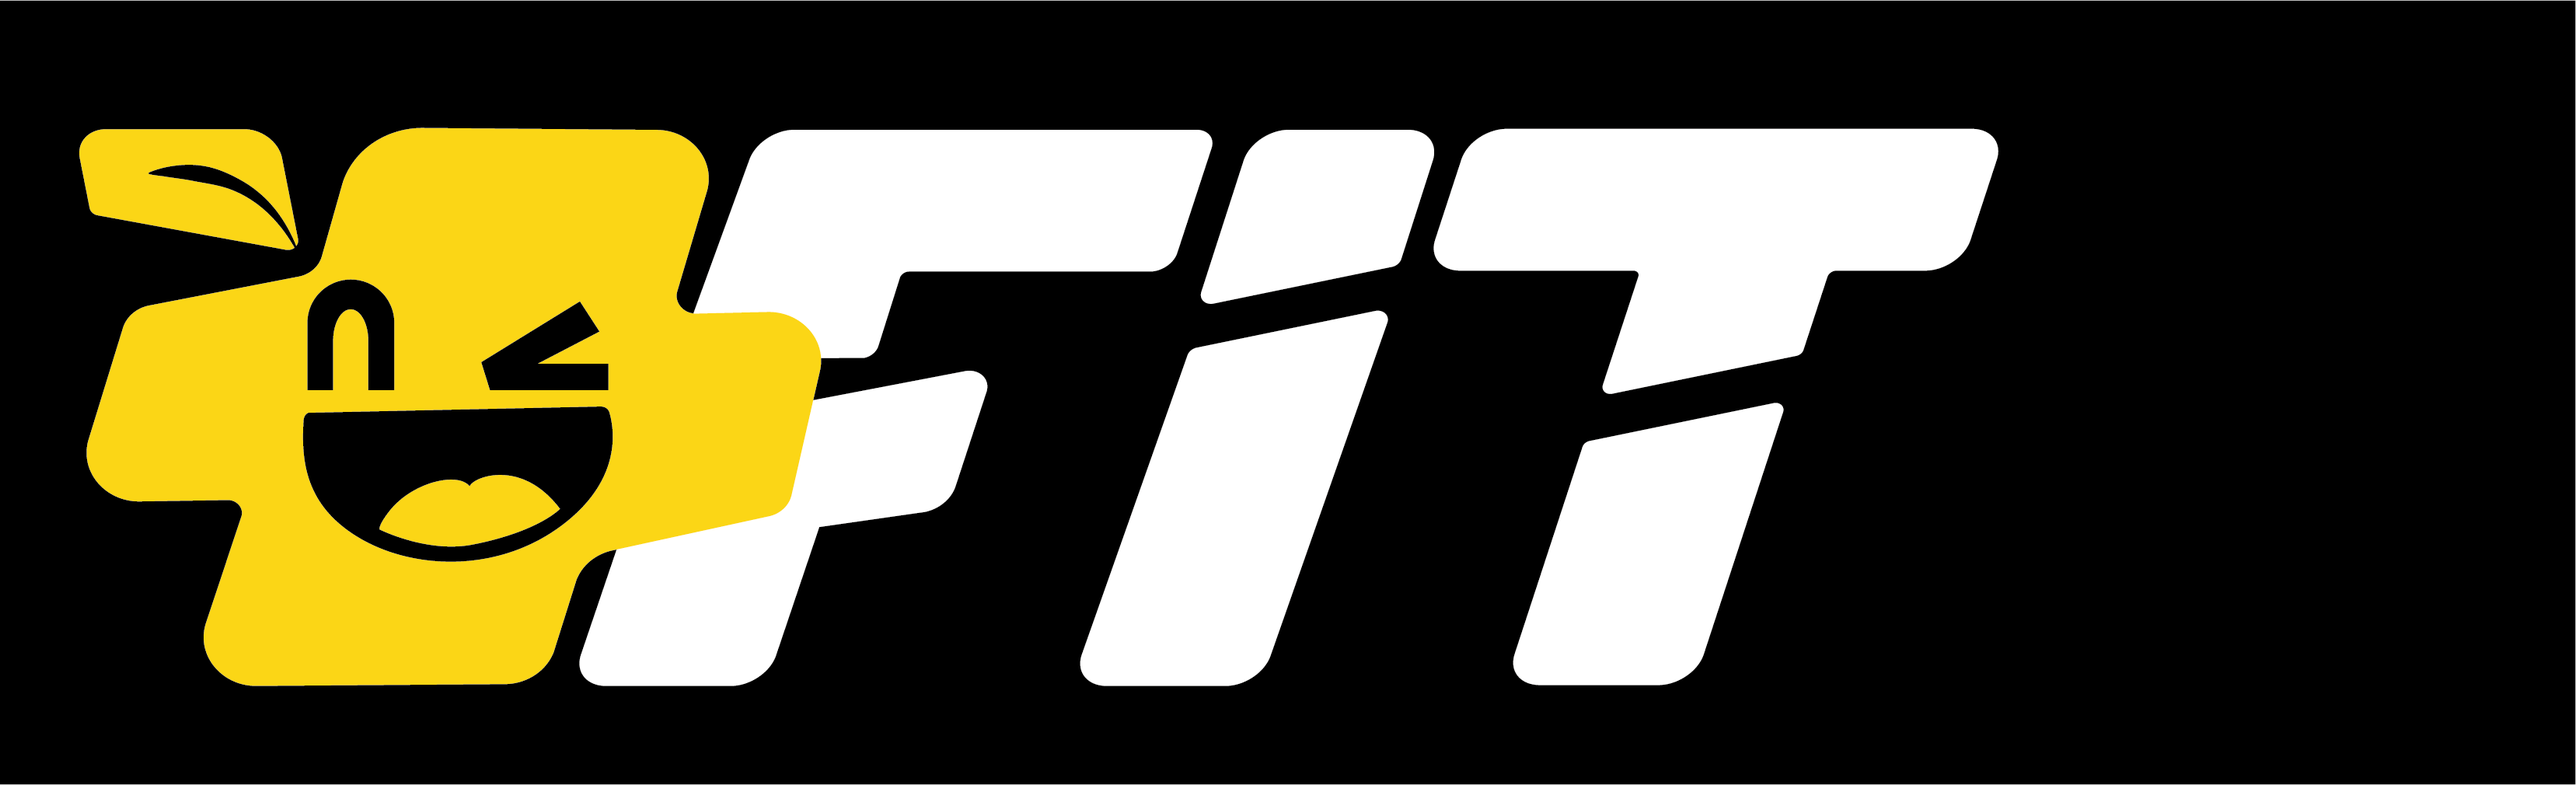
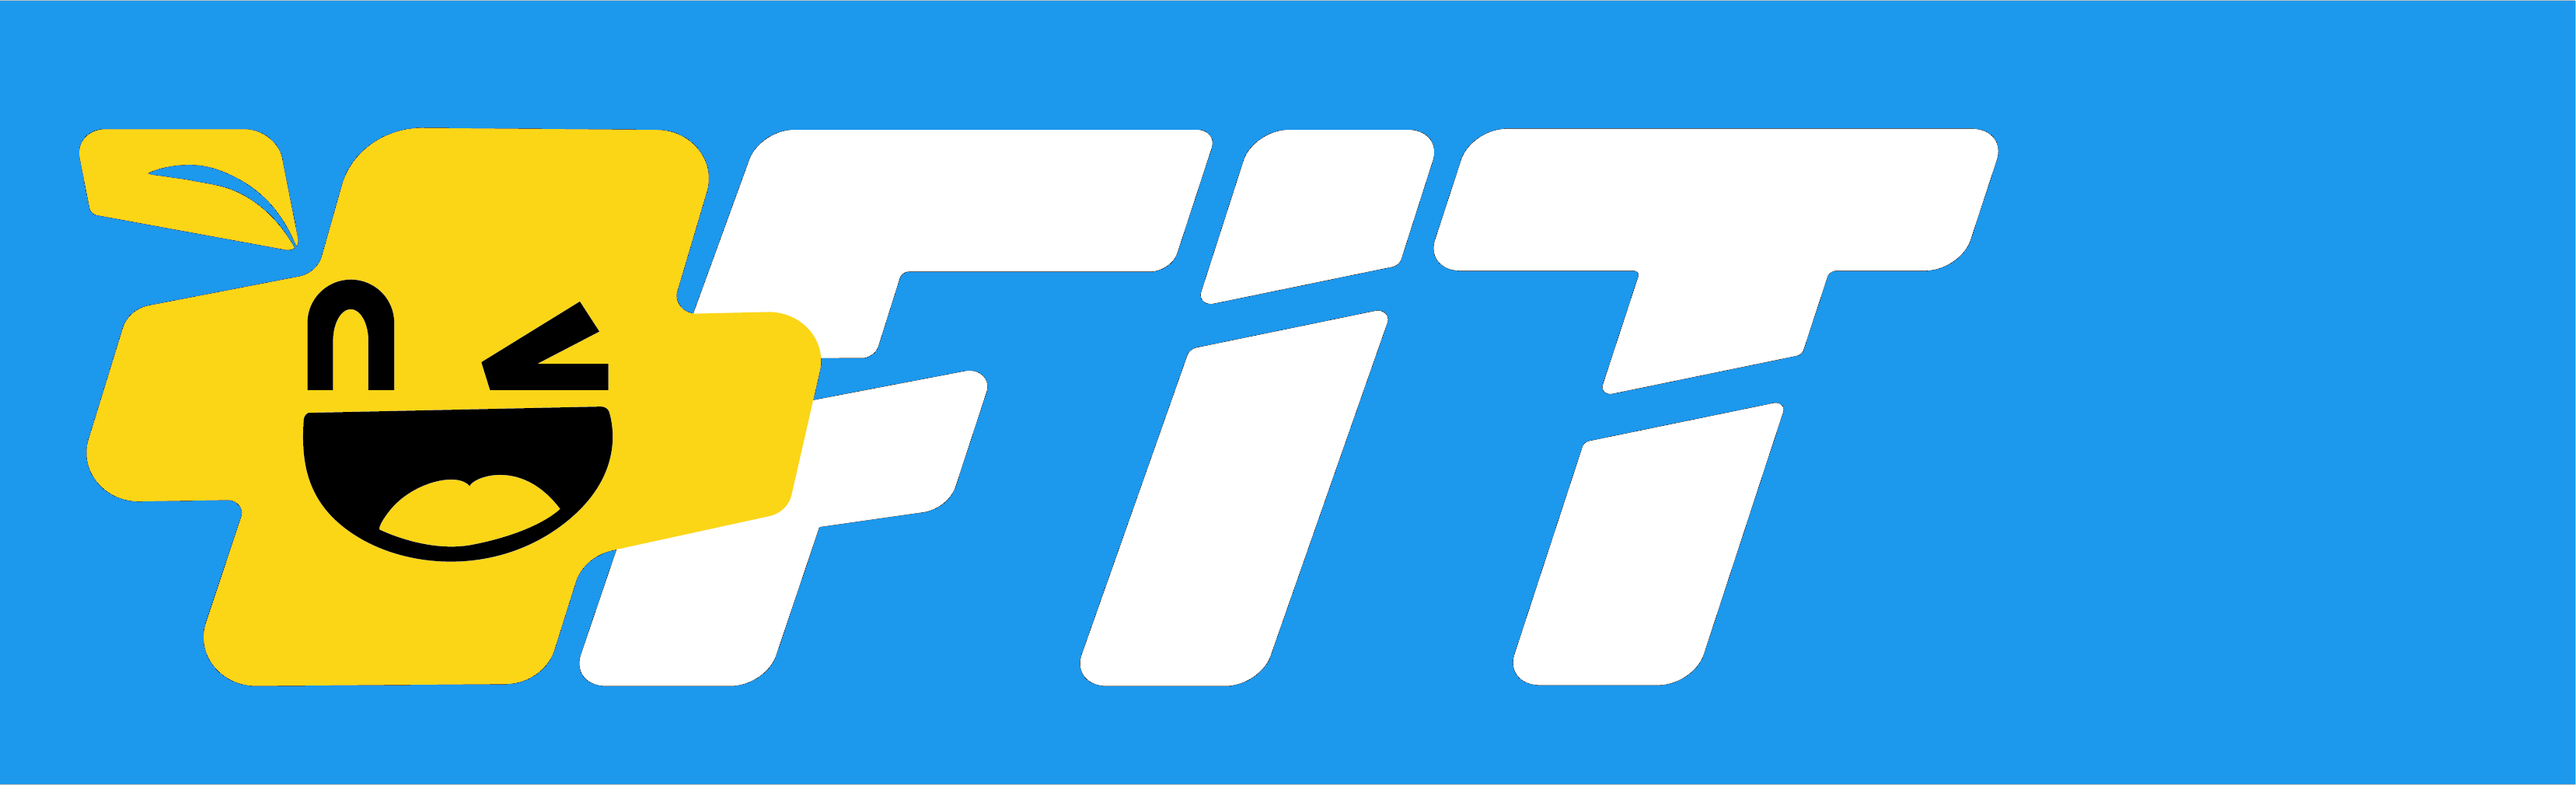
feat: update color palette and enhance UI elements across components

diff --git a/src/app/core/components/user-area/user-area.component.html b/src/app/core/components/user-area/user-area.component.html
@@ -1,7 +1,7 @@
 <!-- eslint-disable @angular-eslint/template/interactive-supports-focus -->
 <div class="border-t border-t-neutral-700 pt-6 cursor-pointer">
   <div
-    class="flex items-center justify-between bg-neutral-900 rounded-sm p-4 w-full space-x-4 hover:bg-neutral-800 transition-colors"
+    class="flex items-center justify-between bg-primary-500 text-white rounded-sm p-4 w-full space-x-4 hover:bg-primary-600 transition-colors"
     aria-label="Cerrar sesión"
     (click)="logOut()"
     (keyup.enter)="logOut()"

diff --git a/src/app/features/auth/components/forgot-password-form/forgot-password-form.component.html b/src/app/features/auth/components/forgot-password-form/forgot-password-form.component.html
@@ -1,9 +1,9 @@
 <div
-  class="mx-auto space-y-10 w-full max-w-md p-8 bg-white shadow-warning-200 shadow-2xl rounded-lg"
+  class="mx-auto space-y-10 w-full max-w-md p-8 bg-white shadow-primary-500 shadow-2xl rounded-lg"
 >
   <div class="space-y-4">
     <img
-      src="../../../../../assets/backgrounds/fede-bg-1-min.png"
+      src="../../../../../assets/logos/logo-1c98ed.png"
       alt="Logo"
       class="object-fill h-20 mx-auto"
     />

diff --git a/src/app/features/auth/components/login-form/login-form.component.html b/src/app/features/auth/components/login-form/login-form.component.html
@@ -1,9 +1,9 @@
 <div
-  class="mx-auto space-y-10 w-full max-w-md p-8 bg-white shadow-warning-200 shadow-2xl rounded-lg"
+  class="mx-auto space-y-10 w-full max-w-md p-8 bg-white shadow-primary-500 shadow-2xl rounded-lg"
 >
   <div class="space-y-4">
     <img
-      src="../../../../../assets/backgrounds/fede-bg-1-min.png"
+      src="../../../../../assets/logos/logo-1c98ed.png"
       alt="Logo"
       class="object-fill h-20 mx-auto"
     />

diff --git a/tailwind.config.js b/tailwind.config.js
@@ -9,9 +9,12 @@ module.exports = {
       },
       colors: {
         primary: {
-          300: '#090701',
-          400: '#383735',
-          500: '#464544',
+          100: '#66afe3',
+          200: '#3394da',
+          300: '#1c98ed', //color que fede mando
+          400: '#1a8ae0',
+          500: '#1976d2',
+          600: '#1565c0',
         },
         secondary: {
           100: '#f9e44b',

diff --git a/src/app/core/components/dashboard-layout/dashboard-layout.component.html b/src/app/core/components/dashboard-layout/dashboard-layout.component.html
@@ -1,5 +1,5 @@
 <div class="h-screen bg-neutral-200 flex">
-  <nav class="bg-neutral-1000 z-10">
+  <nav class="bg-gradient-to-t from-primary-300 to-primary-600 z-10">
     <div class="h-full">
       <div class="flex flex-col justify-between h-full px-4 py-6 w-64">
         <app-navigation></app-navigation>

diff --git a/src/app/features/auth/components/auth-layout/auth-layout.component.html b/src/app/features/auth/components/auth-layout/auth-layout.component.html
@@ -4,7 +4,7 @@
     <router-outlet></router-outlet>
   </div>
   <footer class="w-full flex justify-between items-center">
-    <span class="text-body-sm text-primary-500"
+    <span class="text-body-sm text-black"
       >GilGo Software Solutions © {{ getYear() }}</span
     >
   </footer>

diff --git a/src/app/core/components/navigation/navigation.component.html b/src/app/core/components/navigation/navigation.component.html
@@ -3,8 +3,8 @@
     <a routerLink="/">
       <img
         title="logo"
-        class="scale-75 w-full"
-        src="./assets/logos/logo2.png"
+        class="w-full"
+        src="./assets/logos/logo-white.png"
         [alt]="appName"
       />
     </a>
